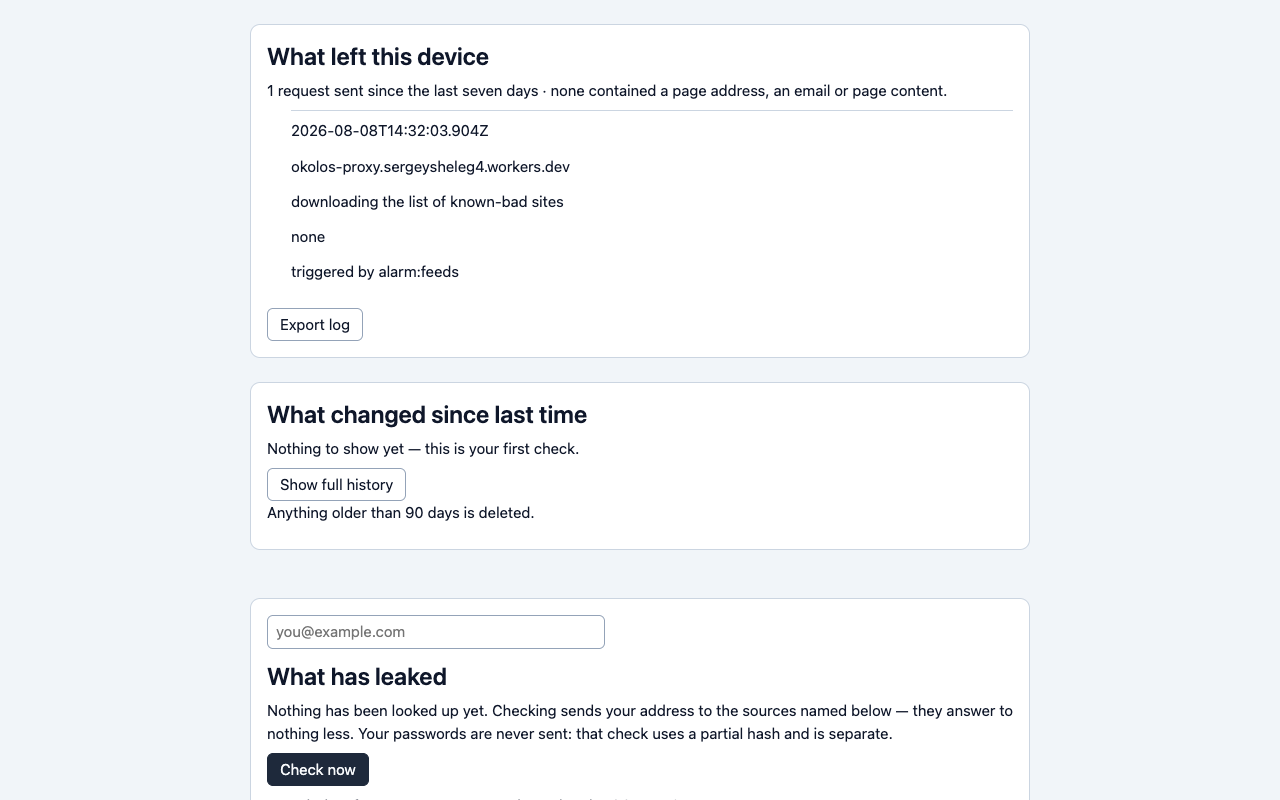
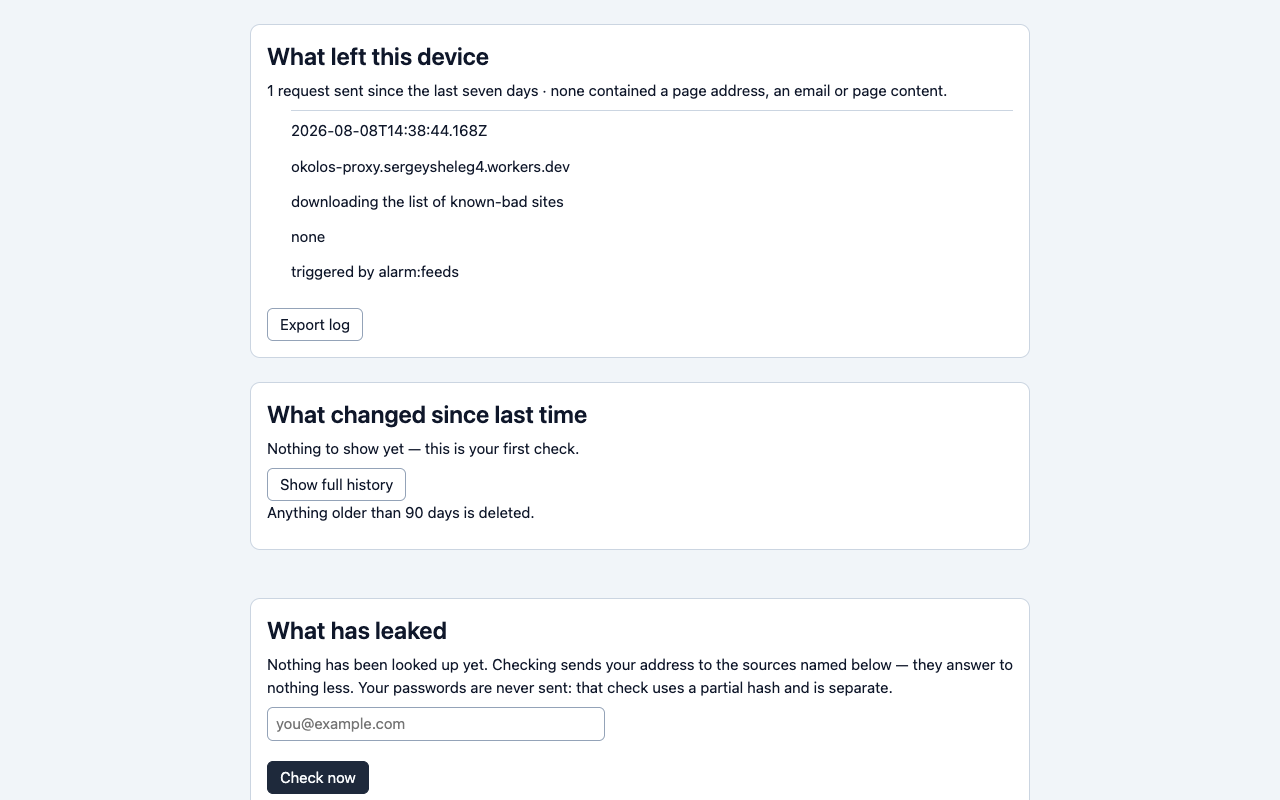
feat(ui): the address field under the heading it feeds — B-16c, and B-16 closed
The field sat above the "What has leaked" panel because its slot was appended
before it. Ordering it from the stylesheet was tried and measured: from outside
the panel a rule can only put it before the whole thing or after, and after puts
the input below the button that reads it.

So the panel names the place. `renderLeaks` emits the slot between the
description and "Check now"; the options page still owns the field itself,
because it has to be a long-lived node the repaint moves rather than rebuilds —
rebuilding it threw away whatever was being typed, which is the defect that cost
four days earlier this week.

The first version emitted the slot only in the idle state, which would have made
the field vanish the moment a check started or finished — exactly when someone
wants to try a second address. Caught by asking what happens in the other three
states rather than by a test failing. It is emitted in all four now, and
planting the omission back reds the test.

That closes B-16. The product has a visual layer: one token module, generated
into the pages' stylesheet and declared on the host of every closed shadow root,
with no stylesheet writing a colour or a length of its own. The store
screenshots are taken from the built extension and no longer show an unreadable
screen.

Also corrected: the listing gate demanded the listing admit its screenshots were
not submittable. They are now, so that assertion would pass on any sentence
[…]

Changed region(s): [[0.1875, 0.7812, 0.7812, 1.0], [0.3125, 0.1562, 0.375, 0.1875]]

diff --git a/packages/ui/src/leaks/leaks.ts b/packages/ui/src/leaks/leaks.ts
@@ -60,6 +60,19 @@ export function renderLeaks(doc: Document, state: LeaksState, handlers: LeaksHan
       // reads as a broken product — and hid a real defect for three days
       // because the page looked exactly as it had before the click.
       ...(state.needs ? [text(doc, 'needs', state.needs)] : []),
+      // Where the address field goes.
+      //
+      // The field itself is not built here: it is a long-lived node the options
+      // page moves between repaints rather than rebuilds, because rebuilding it
+      // threw away whatever was being typed. The panel names the place; the
+      // page puts the node in it, synchronously, in the same statement as the
+      // swap.
+      //
+      // Naming the place matters because the alternative was ordering it from a
+      // stylesheet, and from outside the panel a rule can only put the field
+      // before the whole thing or after it — after being below the button that
+      // reads it.
+      addressSlot(doc),
       button(doc, 'check', 'Check now', handlers.onCheck, true),
       attribution(doc),
     )
@@ -67,7 +80,7 @@ export function renderLeaks(doc: Document, state: LeaksState, handlers: LeaksHan
   }
 
   if (state.kind === 'checking') {
-    root.append(text(doc, 'status', 'Asking the sources…'), attribution(doc))
+    root.append(text(doc, 'status', 'Asking the sources…'), addressSlot(doc), attribution(doc))
     return root
   }
 
@@ -75,6 +88,7 @@ export function renderLeaks(doc: Document, state: LeaksState, handlers: LeaksHan
     root.append(
       text(doc, 'error', `The check could not be completed: ${state.message}`),
       text(doc, 'error-note', 'This is not a statement that nothing has leaked.'),
+      addressSlot(doc),
       button(doc, 'check', 'Try again', handlers.onCheck),
       attribution(doc),
     )
@@ -92,6 +106,7 @@ export function renderLeaks(doc: Document, state: LeaksState, handlers: LeaksHan
     ),
     // Always, and next to the number rather than beneath the fold.
     text(doc, 'coverage', inventory.coverage),
+    addressSlot(doc),
   )
 
   // Grouped, not date-sorted: an infection and a 2016 breach need different
@@ -155,6 +170,20 @@ function leakRow(doc: Document, leak: Leak, handlers: LeaksHandlers): HTMLElemen
   actions.append(button(doc, 'resolve', 'Mark resolved', () => handlers.onResolve(leak.name)))
   row.append(actions)
   return row
+}
+
+/**
+ * The place the options page puts its live address field.
+ *
+ * Emitted in **every** state, not only the idle one. The page re-attaches the
+ * field by replacing this slot after each paint; a state that omits it is a
+ * state where the field simply vanishes — including the one right after a check
+ * finishes, which is exactly when someone wants to try a second address.
+ */
+function addressSlot(doc: Document): HTMLElement {
+  const slot = doc.createElement('span')
+  slot.setAttribute('data-role', 'address-slot')
+  return slot
 }
 
 function text(doc: Document, role: string, content: string): HTMLParagraphElement {

diff --git a/packages/ui/src/leaks/leaks.test.ts b/packages/ui/src/leaks/leaks.test.ts
@@ -199,3 +199,50 @@ describe('a press that cannot be honoured', () => {
     expect(role(el, 'check')).not.toBeNull()
   })
 })
+
+describe('where the address field goes', () => {
+  /**
+   * The panel does not build the field — the options page owns it, because it
+   * has to survive a repaint that rebuilds everything around it. What the panel
+   * owes is the place.
+   *
+   * Ordering it from a stylesheet was tried and measured: from outside the
+   * panel a rule can only put the field before the whole thing or after it, and
+   * after puts the input below the button that reads it.
+   */
+  it('names a place for it under the description', () => {
+    const el = render({ kind: 'idle' })
+    expect(el.querySelector('[data-role=address-slot]'), 'no slot for the field').not.toBeNull()
+  })
+
+  it('puts that place before the button that reads it', () => {
+    const el = render({ kind: 'idle' })
+    const roles = [...el.querySelectorAll('[data-role]')].map((n) => n.getAttribute('data-role'))
+    expect(roles.indexOf('address-slot')).toBeGreaterThan(roles.indexOf('idle'))
+    expect(roles.indexOf('address-slot')).toBeLessThan(roles.indexOf('check'))
+  })
+
+  it('offers that place in every state, or the field vanishes', () => {
+    /**
+     * The first version emitted the slot only when idle. The page re-attaches
+     * the field by replacing the slot after each paint, so any state without
+     * one is a state where the field is simply gone — including the state right
+     * after a check finishes, which is when someone wants to try a second
+     * address.
+     */
+    const states = [
+      { kind: 'idle' } as const,
+      { kind: 'checking' } as const,
+      { kind: 'error', message: 'the source did not answer' } as const,
+      {
+        kind: 'ready' as const,
+        inventory: mergeLeaks([{ name: 'HIBP', answered: true, leaks: [] }]),
+        now: NOW,
+      },
+    ]
+    for (const state of states) {
+      const el = render(state)
+      expect(el.querySelector('[data-role=address-slot]'), state.kind).not.toBeNull()
+    }
+  })
+})

diff --git a/tools/listing.test.ts b/tools/listing.test.ts
@@ -102,10 +102,19 @@ describe('the screenshots are of this product', () => {
     }
   })
 
-  it('is honest in the listing about what they are not yet', () => {
-    // They are screenshots of unstyled HTML: the product has no visual layer,
-    // its own screen record says the style pack was never chosen, and a listing
-    // that showed these as finished would be the misleading part.
-    expect(listing).toMatch(/визуальн/i)
+  it('says they come from the built product rather than from a drawing', () => {
+    /**
+     * This assertion used to demand the listing admit the screenshots were not
+     * submittable — the product had no visual layer and images of an unreadable
+     * screen would have been the misleading part. That was fixed, so the
+     * assertion would now pass on any sentence containing the word; it guards
+     * what is worth guarding instead.
+     *
+     * A listing image showing a screen the extension does not draw is the same
+     * defect as a document claiming a capability nobody built, and it is the
+     * version a reviewer sees first.
+     */
+    expect(listing).toMatch(/pnpm screenshots/)
+    expect(listing).toMatch(/настоящие\s+\n?экраны продукта, а не макеты/)
   })
 })

diff --git a/apps/extension/src/options/index.ts b/apps/extension/src/options/index.ts
@@ -77,16 +77,12 @@ function leaksSection(): HTMLElement {
   // first screenshot of the styled build showed.
   container.setAttribute('data-role', 'leaks-section')
 
-  // A placeholder, not the field itself. Moving the live input into a tree
-  // that has not been swapped in yet takes it out of the document for as long
-  // as the remaining sections take to load — a window in which the field is
-  // simply not on the page. It is put back in `renderPanel`, synchronously
-  // after the swap.
-  const slot = document.createElement('span')
-  slot.setAttribute('data-role', 'address-slot')
-
+  // The slot now lives inside the panel, where the field belongs: under the
+  // description and above the button that reads it. The panel names the place;
+  // this page fills it in `renderPanel`, synchronously after the swap, because
+  // moving the live input into a tree that has not been swapped in yet takes it
+  // out of the document for as long as the remaining sections take to load.
   container.append(
-    slot,
     renderLeaks(document, leaks, {
       onCheck: () => {
         void (async () => {

diff --git a/docs/superpowers/backlog.md b/docs/superpowers/backlog.md
@@ -10,7 +10,7 @@
 | Требования | 36 из 37 DONE, 37-е закрыто решением «не выпускается» | `grep -c '^| REQ-' docs/superpowers/briefs/2026-08-04-okolos-p0-p5.md` → 37 |
 | Сценарии | 26 из 26 `implemented` | `grep -c 'Status:\*\* implemented' docs/ux/scenarios.md` |
 | Экраны | 14 из 14 `built` | `grep -c 'Status:\*\* built' docs/ux/screens.md` |
-| Гейты | 1296 юнитов, 74 e2e Chromium, 12 проверок Firefox, lint, typecheck, ux-линтер | `pnpm test && pnpm test:e2e` |
+| Гейты | 1299 юнитов, 74 e2e Chromium, 12 проверок Firefox, lint, typecheck, ux-линтер | `pnpm test && pnpm test:e2e` |
 | Прод | воркер развёрнут, фид опубликован и проверен | `node tools/deploy-worker.mjs --smoke-only` |
 
 **Функционально продукт собран. Выпустить его нельзя** — по причинам ниже, и ни
@@ -78,7 +78,7 @@
 **P0 из первого аудита закрыт 2026-08-08.** Но при снятии скриншотов для
 карточки вскрылось то, что первый аудит пропустил, и оно тянет на P0 заново.
 
-### B-16. Визуального слоя нет ни у одного экрана — **P0; ЭТАП a СДЕЛАН 2026-08-08**
+### B-16. Визуального слоя нет ни у одного экрана — **ЗАКРЫТ 2026-08-08**
 
 **Измерено 2026-08-08, глазами, на снимках собранного расширения.** Все
 четырнадцать экранов — верстка браузера по умолчанию: ни сетки, ни ритма, ни
@@ -119,12 +119,12 @@
 осталось ни одного, гейт расширен на весь `packages/ui`, и исключение
 достижимости для `tokens.ts` снято: его теперь импортирует настоящий код.
 
-#### B-16c. Поле адреса стоит не там
-Оно **над** заголовком «Что утекло», а должно быть между описанием и кнопкой
-«Проверить». С уровня секции это не чинится: `order` может поставить его до
-панели или после неё, а после — **под кнопкой, которая его читает** (проверено
-взглядом, стало хуже). Настоящая починка — слот внутри `renderLeaks`, чтобы поле
-осталось долгоживущим узлом, который перерисовка переносит, а не пересоздаёт.
+#### B-16c. Поле адреса — **СДЕЛАНО 2026-08-08**
+Слот перенесён внутрь `renderLeaks`: панель называет место, страница ставит туда
+свой долгоживущий узел. Поле стоит под описанием и над кнопкой, которая его
+читает. Слот эмитится **во всех состояниях** — первая версия давала его только
+в `idle`, и поле исчезало сразу после проверки, то есть ровно тогда, когда
+хочется проверить второй адрес; подсадка этого пропуска роняет тест.
 
 Осталось из первого аудита: то, что не блокирует загрузку, и один человеческий
 шаг — аккаунт Chrome Web Store.

diff --git a/docs/store/listing.md b/docs/store/listing.md
@@ -140,12 +140,9 @@ Source is open under AGPL-3.0.
 Снимаются с собранного расширения командой `pnpm screenshots` — это настоящие
 экраны продукта, а не макеты. 1280×800, как требует магазин.
 
-> **Снимки пока не годятся для подачи, и это честнее сказать, чем показать.**
-> У продукта нет визуального слоя: `pages.css` — 500 байт с комментарием «страницы
-> намеренно голый HTML», а запись экранов говорит, что style pack **не выбран**.
-> На первом запуске это уже не вопрос вкуса: без стилей статус рендерится встык
-> с названием проверки — «Local storage**done**ready», — и экран нечитаем.
-> Снимки обновляются после B-16.
+Сняты после B-16: у продукта есть визуальный слой, значения приходят из
+`packages/ui/src/tokens.ts`, девять проверок axe проходят на стилизованной
+сборке.
 
 | Файл | Экран | Что показывает |
 |---|---|---|

diff --git a/docs/brand/facts.md b/docs/brand/facts.md
@@ -58,7 +58,7 @@
 |---|---|---|
 | Пакетов | 19 | `ls -d packages/*/ \| wc -l` |
 | Приложений | 2 | `ls -d apps/*/ \| wc -l` |
-| Юнит-тестов | 1296 | `pnpm test` |
+| Юнит-тестов | 1299 | `pnpm test` |
 | Спек e2e | 21 файлов, 74 проверки в Chromium | `pnpm test:e2e` |
 | Проверок в Firefox | 12 | `pnpm test:e2e:firefox` |
 | Требований закрыто | 36 из 37; 37-е закрыто решением не выпускать | `docs/superpowers/briefs/` |

diff --git a/docs/ux/wireframes/SCR-08.md b/docs/ux/wireframes/SCR-08.md
@@ -13,6 +13,7 @@
 - `attribution`
 - `leak`
 - `leak-actions`
+- `address-slot`
 - `idle`
 - `needs`
 - `check`
